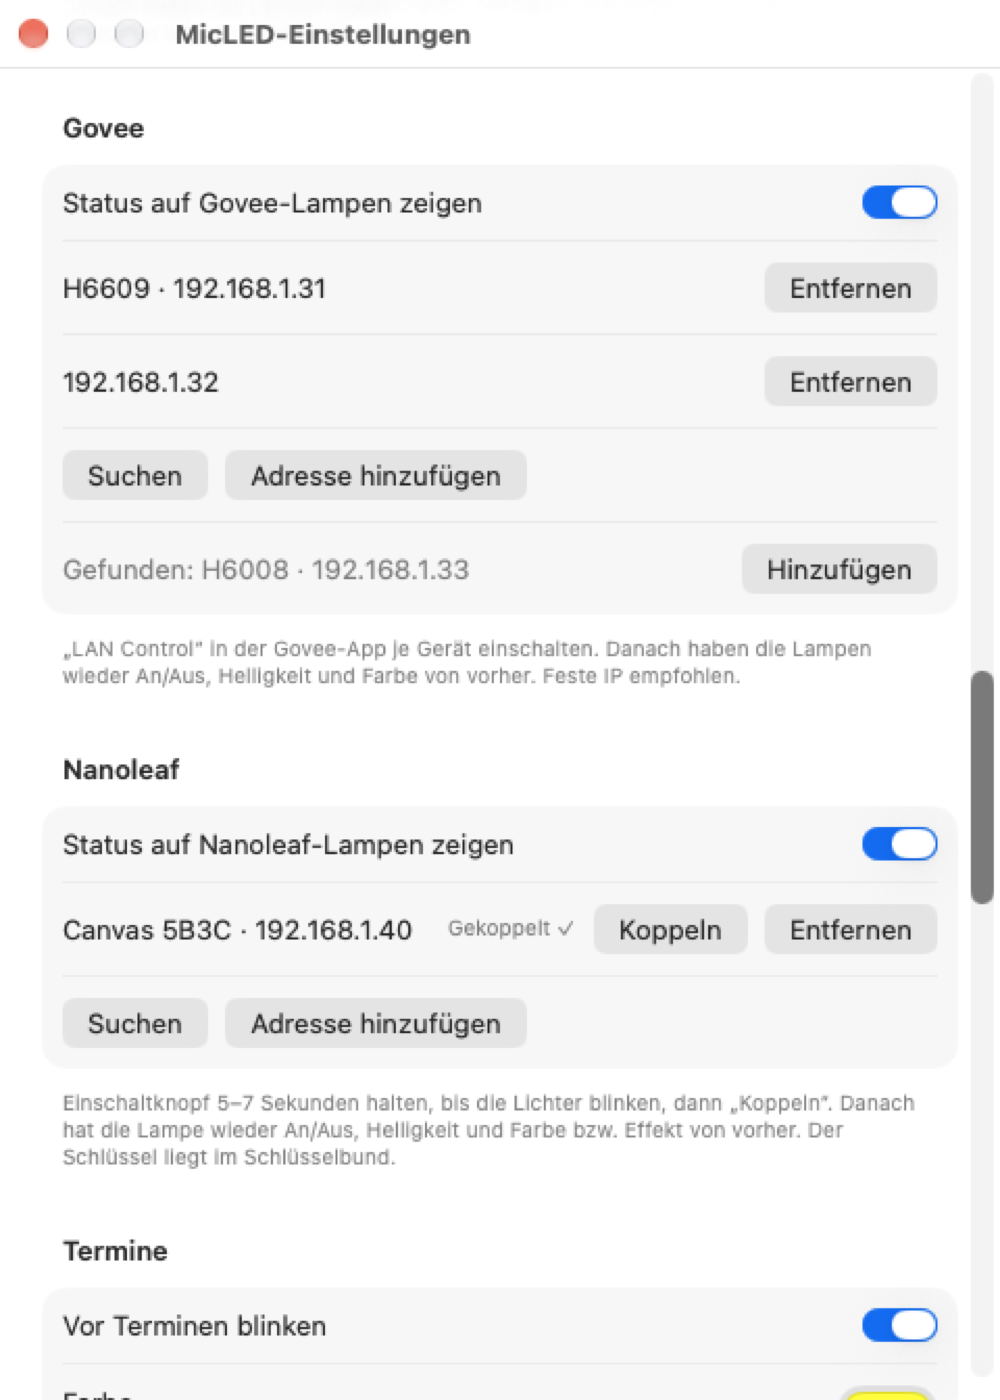
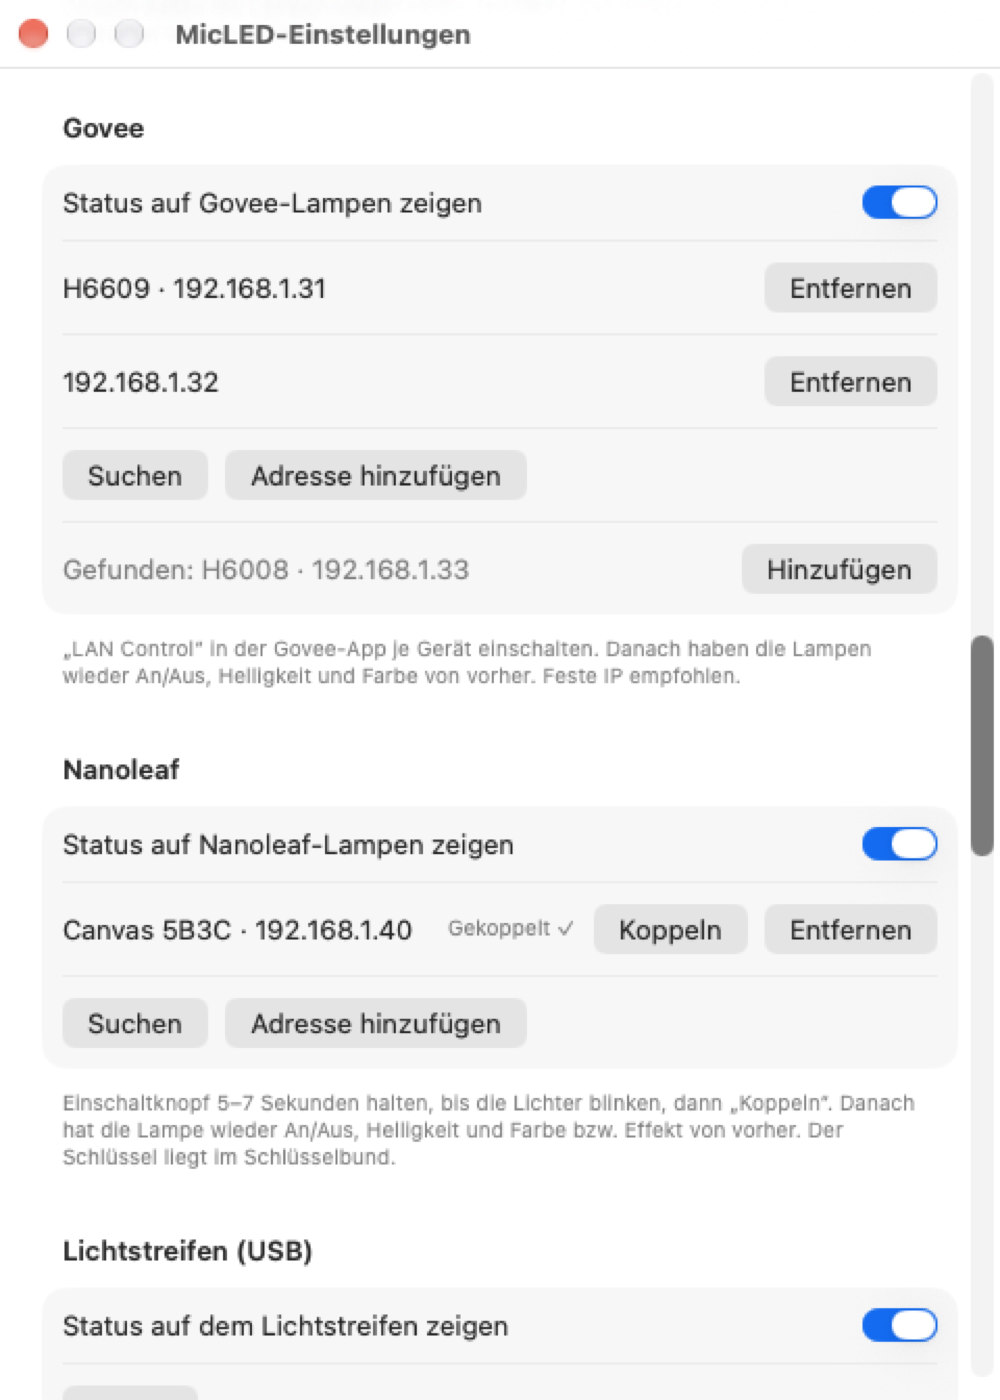
feat(app): add light strip section with test button to the settings #21

diff --git a/apps/MicLED/Sources/AppModel.swift b/apps/MicLED/Sources/AppModel.swift
@@ -88,6 +88,8 @@ final class AppModel {
             persist()
         }
     }
+    /// Status auf einem USB-Lichtstreifen mit Robobloq-Controller zeigen
+    var robobloqEnabled: Bool { didSet { persist() } }
     /// Schlüssel vom Koppeln je Eintrag, liegen im Schlüsselbund
     private(set) var nanoleafKeys: [UUID: String] = [:]
     var favorites: [String] { didSet { persist(pushConfig: false) } }
@@ -177,6 +179,7 @@ final class AppModel {
             Key.goveeDevices: [[String: String]](),
             Key.nanoleafEnabled: false,
             Key.nanoleafDevices: [[String: String]](),
+            Key.robobloqEnabled: false,
             Key.dimEnabled: false,
             Key.dimFrom: 18 * 60,
             Key.dimTo: 7 * 60,
@@ -222,6 +225,7 @@ final class AppModel {
         goveeDevices = NetLight.list(d.array(forKey: Key.goveeDevices))
         nanoleafEnabled = d.bool(forKey: Key.nanoleafEnabled)
         nanoleafDevices = NetLight.list(d.array(forKey: Key.nanoleafDevices))
+        robobloqEnabled = d.bool(forKey: Key.robobloqEnabled)
         favorites = d.stringArray(forKey: Key.favorites) ?? AppModel.defaultFavorites
         timerHex = d.string(forKey: Key.timerColor) ?? "8000ff"
         focusEnabled = d.bool(forKey: Key.focusEnabled)
@@ -405,6 +409,13 @@ final class AppModel {
         return "Gekoppelt ✓"
     }
 
+    /// Lichtstreifen per USB suchen und Geräteinfo lesen, liefert eine Meldung
+    /// für die Einstellungen
+    func checkRobobloq() async -> String {
+        let result = await Task.detached { robobloqCheck() }.value
+        return result.error ?? "Gefunden: \(result.leds) LEDs, Firmware \(result.firmware)"
+    }
+
     func nanoleafPaired(_ id: UUID) -> Bool {
         !(nanoleafKeys[id] ?? "").isEmpty
     }
@@ -511,7 +522,8 @@ final class AppModel {
             goveeHosts: goveeEnabled ? goveeDevices.map(\.host) : [],
             nanoleaf: nanoleafEnabled
                 ? nanoleafDevices.map { NanoleafDevice(host: $0.host, key: nanoleafKeys[$0.id] ?? "") }
-                : []
+                : [],
+            robobloq: robobloqEnabled
         )
     }
 
@@ -572,6 +584,7 @@ final class AppModel {
         defaults.set(goveeDevices.map(\.stored), forKey: Key.goveeDevices)
         defaults.set(nanoleafEnabled, forKey: Key.nanoleafEnabled)
         defaults.set(nanoleafDevices.map(\.stored), forKey: Key.nanoleafDevices)
+        defaults.set(robobloqEnabled, forKey: Key.robobloqEnabled)
         defaults.set(dimEnabled, forKey: Key.dimEnabled)
         defaults.set(dimFromMinutes, forKey: Key.dimFrom)
         defaults.set(dimToMinutes, forKey: Key.dimTo)
@@ -691,6 +704,7 @@ final class AppModel {
         static let goveeDevices = "goveeDevices"
         static let nanoleafEnabled = "nanoleafEnabled"
         static let nanoleafDevices = "nanoleafDevices"
+        static let robobloqEnabled = "robobloqEnabled"
         static let dimEnabled = "dimEnabled"
         static let dimFrom = "dimFromMinutes"
         static let dimTo = "dimToMinutes"

diff --git a/apps/MicLED/Sources/SettingsView.swift b/apps/MicLED/Sources/SettingsView.swift
@@ -11,6 +11,7 @@ struct SettingsView: View {
     @State private var hueResult = ""
     @State private var goveeResult = ""
     @State private var nanoleafResult = ""
+    @State private var robobloqResult = ""
     /// Meldung vom Koppeln je Nanoleaf-Eintrag
     @State private var nanoleafPairResults: [UUID: String] = [:]
 
@@ -247,6 +248,26 @@ struct SettingsView: View {
                 Text("Nanoleaf")
             } footer: {
                 Text("Einschaltknopf 5–7 Sekunden halten, bis die Lichter blinken, dann „Koppeln“. Danach hat die Lampe wieder An/Aus, Helligkeit und Farbe bzw. Effekt von vorher. Der Schlüssel liegt im Schlüsselbund.")
+                    .font(.caption).foregroundStyle(.secondary)
+            }
+
+            Section {
+                Toggle("Status auf dem Lichtstreifen zeigen", isOn: $model.robobloqEnabled)
+                if model.robobloqEnabled {
+                    HStack {
+                        Button("Testen") {
+                            robobloqResult = "Suche …"
+                            Task { robobloqResult = await model.checkRobobloq() }
+                        }
+                        Text(robobloqResult).font(.caption).foregroundStyle(.secondary)
+                    }
+                }
+                Text("Nur ein Programm zur Zeit kann den Controller steuern: DX-Light, SyncLight, backlit usw. vorher beenden.")
+                    .font(.caption).foregroundStyle(.secondary)
+            } header: {
+                Text("Lichtstreifen (USB)")
+            } footer: {
+                Text("Streifen mit Robobloq-Controller (USB 1A86:FE07), z. B. Meewata. Bei Call, Timer und Fokus leuchtet der ganze Streifen in der Farbe, sonst ist er aus. Nach dem Wiederanstecken bekommt er die Farbe nach wenigen Sekunden neu.")
                     .font(.caption).foregroundStyle(.secondary)
             }
 

diff --git a/apps/MicLED/Sources/ScreenshotMode.swift b/apps/MicLED/Sources/ScreenshotMode.swift
@@ -28,7 +28,7 @@ enum ScreenshotMode {
     /// (und nicht ausgegraut) aufgenommen wird
     static var window: String { argument("--window") ?? "menu" }
 
-    /// `--scroll network`: Einstellungen bis zu Govee und Nanoleaf scrollen
+    /// `--scroll network`: Einstellungen bis zu Govee, Nanoleaf und Lichtstreifen scrollen
     static var scroll: String? { isActive ? argument("--scroll") : nil }
 
     static let suiteName = "net.staude.micled.screenshots"
@@ -58,6 +58,7 @@ enum ScreenshotMode {
         ], forKey: "goveeDevices")
         d.set(true, forKey: "nanoleafEnabled")
         d.set([["id": UUID().uuidString, "host": "192.168.1.40:16021", "name": "Canvas 5B3C"]], forKey: "nanoleafDevices")
+        d.set(true, forKey: "robobloqEnabled")
         return d
     }
 
